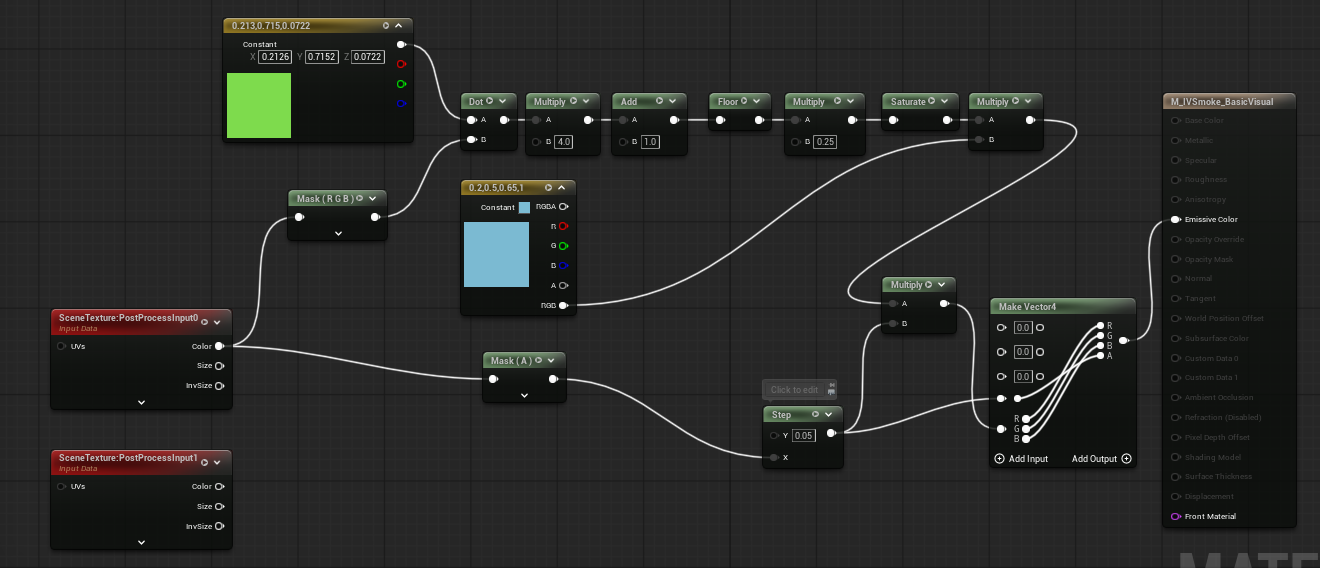
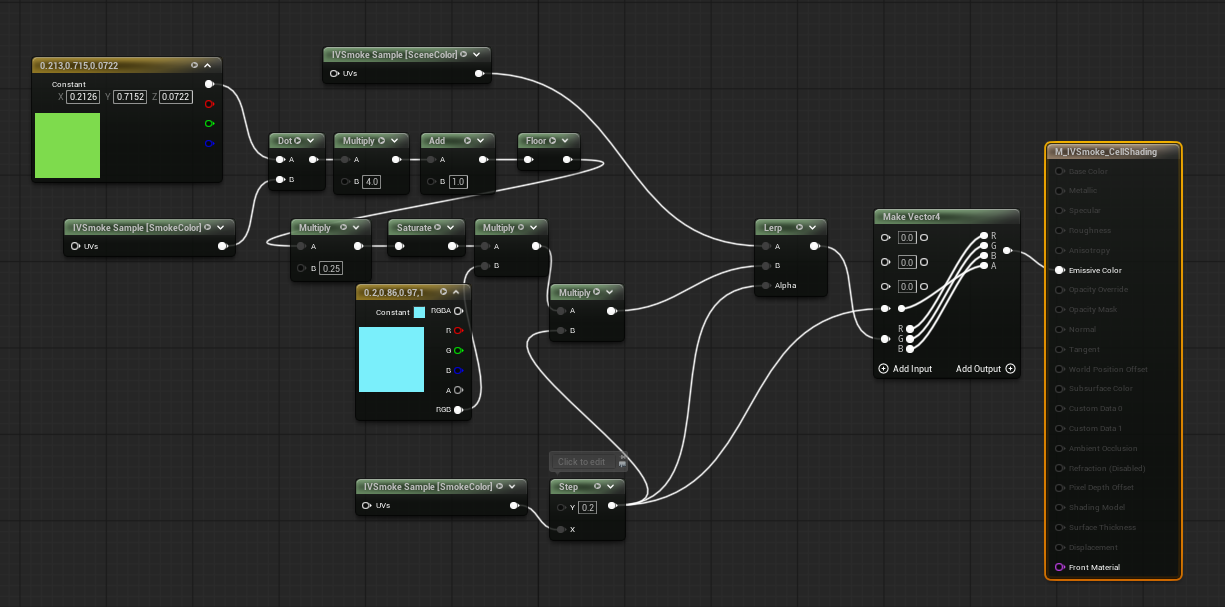
docs: 커스텀 마테리얼 수정사항  적용

diff --git a/pages/CustomMaterial/CustomMaterialGuide.md b/pages/CustomMaterial/CustomMaterialGuide.md
@@ -1,7 +1,7 @@
 # Custom Material Guide
 
 ## Material
-
+### You must define how you want to mix the Scene and Smoke textures.
 ### Demo Example
 
 ![CustomMaterial_image.png](CustomMaterial_image.png)
@@ -10,10 +10,25 @@
 
 ![CustomMaterial_image1.png](CustomMaterial_image1.png)
 
-- **SmokeTexture**: Create a **SceneTexture** node → Scene Texture ID: **[PostProcessInput0]**
-- **SmokeLocalPosAlphaTexture (LocalPos(x,y,z), Alpha)**: Create a **SceneTexture** node → Scene Texture ID: **[PostProcessInput1]**
-- **SmokeWorldPosDepthTexture (WorldPos(x,y,z), Depth)**: Create a **SceneTexture** node → Scene Texture ID: **[PostProcessInput4]**
-- **Output**: **Emissive Color (RGB)**
+### Expanssion Node
+- You can search and add the IVSmoke_TextureSample node.
+
+![IVSmoke_CustomMaterial_ExpanssionNode.png](IVSmoke_CustomMaterial_ExpanssionNode.png)
+
+- The IVSmoke_TextureSample node is configured as follows.
+
+![IVSmoke_CustomMaterial_ExpanssionNode_TextureType.png](IVSmoke_CustomMaterial_ExpanssionNode_TextureType.png)
+- **Texture Type**
+    - **SmokeColor** : Smoke color texture (SmokeAlbedo(R, G, B), SmokeAlpha)
+    - **SmokeLocalPos** : Smoke local position texture (Local Position(x, y, z), 0)
+    - **SceneColor** : Scene Color Texture 
+    - **SmokeWorldPosLinearDepth** : Smoke world position and linear depth (World Position (x, y, z), Linear Depth)
+
+- These textures are mapped to PostProcessInput[0, 1, 2, 4] on the SceneTexture node..
+
+![IVSmoke_CustomMaterial_ExpanssionNode_ColorMask.png](IVSmoke_CustomMaterial_ExpanssionNode_ColorMask.png)
+
+- **Color Mask** : Choose the color channel you want and use it
 
 ---
 
@@ -29,19 +44,13 @@ Content Drawer → Right-click → Miscellaneous → Data Asset → Select [IVSm
 ![CustomMaterial_image2.png](CustomMaterial_image2.png)
 
 - **Smoke Visual Material**: User-custom smoke material slot
-    - If empty, the system returns **SmokeTexture** as-is
-- **Visual Alpha Type**: Defines how the smoke alpha is processed
-    - **Use Alpha**: Use the alpha value as-is
-    - **CutOff**: `(Alpha ≤ AlphaThreshold ? 0 : 1)`
-- **Alpha Threshold**: Threshold value used in **Visual Alpha Type = CutOff** mode
-- **Low Opacity Remap Threshold**: Handling of very low alpha values
+    - If empty, it will be rendered through a simple composite shader.
+- **UpSample Filter Type** : This filter is applied after upsampling the raymarching results.
+    - **None** : Disable filters.
+    - **Sharpen**: Enhances edges and details, making smoke contours more defined.
+    - **Blur**: Softens with Gaussian blur for natural, smooth smoke appearance.
+    - **Median**: Removes noise while preserving edges for clean smoke rendering.
 
-```
-if (SmokeAlpha < LowOpacityRemapThreshold)
-{
-	SmokeAlpha = max(0.0, (SmokeMask - LowOpacityRemapThreshold * 0.5f) * 2.0);
-}
-```
 ---
 ## Project Setting Visual Material Preset
 ![IVSmoke_ProjectSetting_VisualMaterialPreset.png](IVSmoke_ProjectSetting_VisualMaterialPreset.png)

diff --git a/pages/GlobalSettings/GlobalSettingsGuide.md b/pages/GlobalSettings/GlobalSettingsGuide.md
@@ -108,7 +108,7 @@ Controls the visual characteristics of the smoke.
 | **Smoke Density Falloff** | float | 0.0-1.0 | 0.2 | Edge softness. Lower values create softer, more gradual edges. Higher values create sharper, more defined boundaries. |
 | **Smoke Size** | float | 1.0-1000.0 | 128.0 | Scale of the noise sampling. Larger values create bigger, more billowy smoke patterns. |
 | **Wind Direction** | FVector | - | (0, 0, 0.1) | Direction and speed of wind animation. The magnitude affects speed. |
-| **Sharpness** | float | -1.0 to 1.0 | 0.4 | Post-process sharpening/blur. Negative = blur, Positive = sharpen. |
+
 
 ## Advanced Options (Show Advanced Options = true)
 
